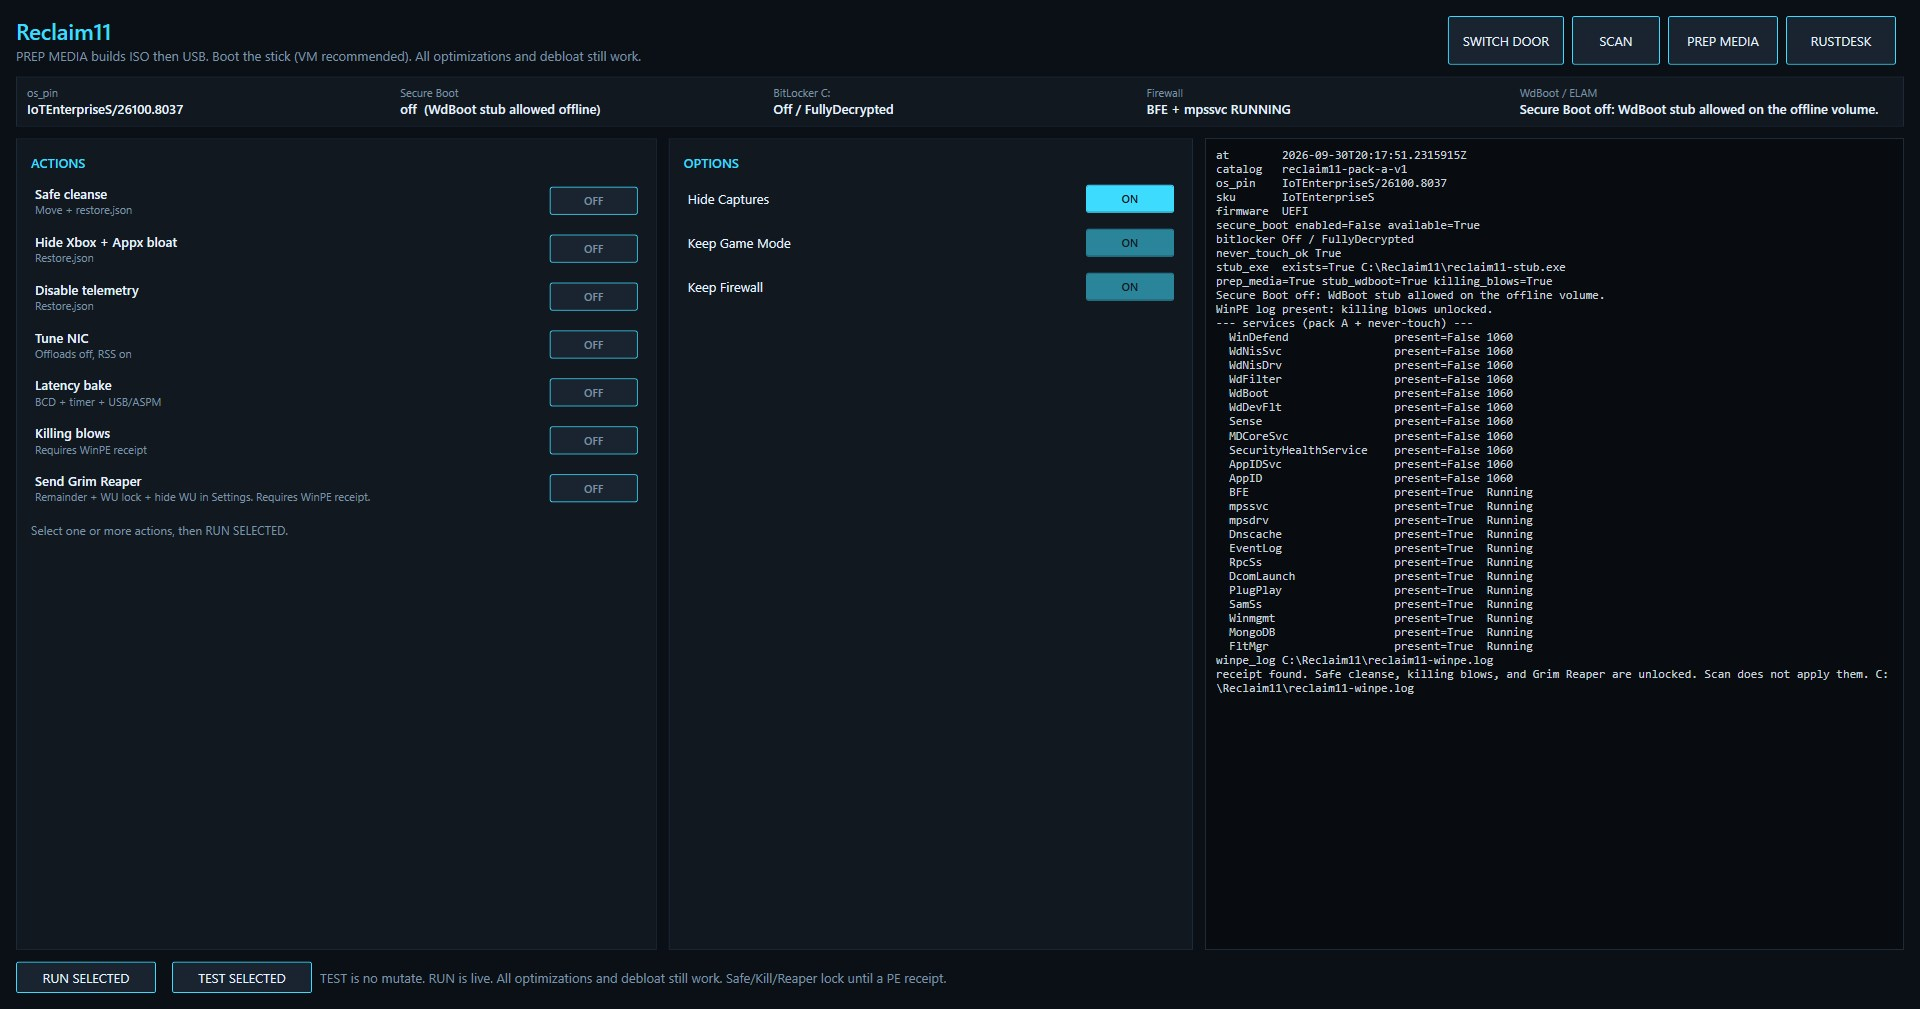
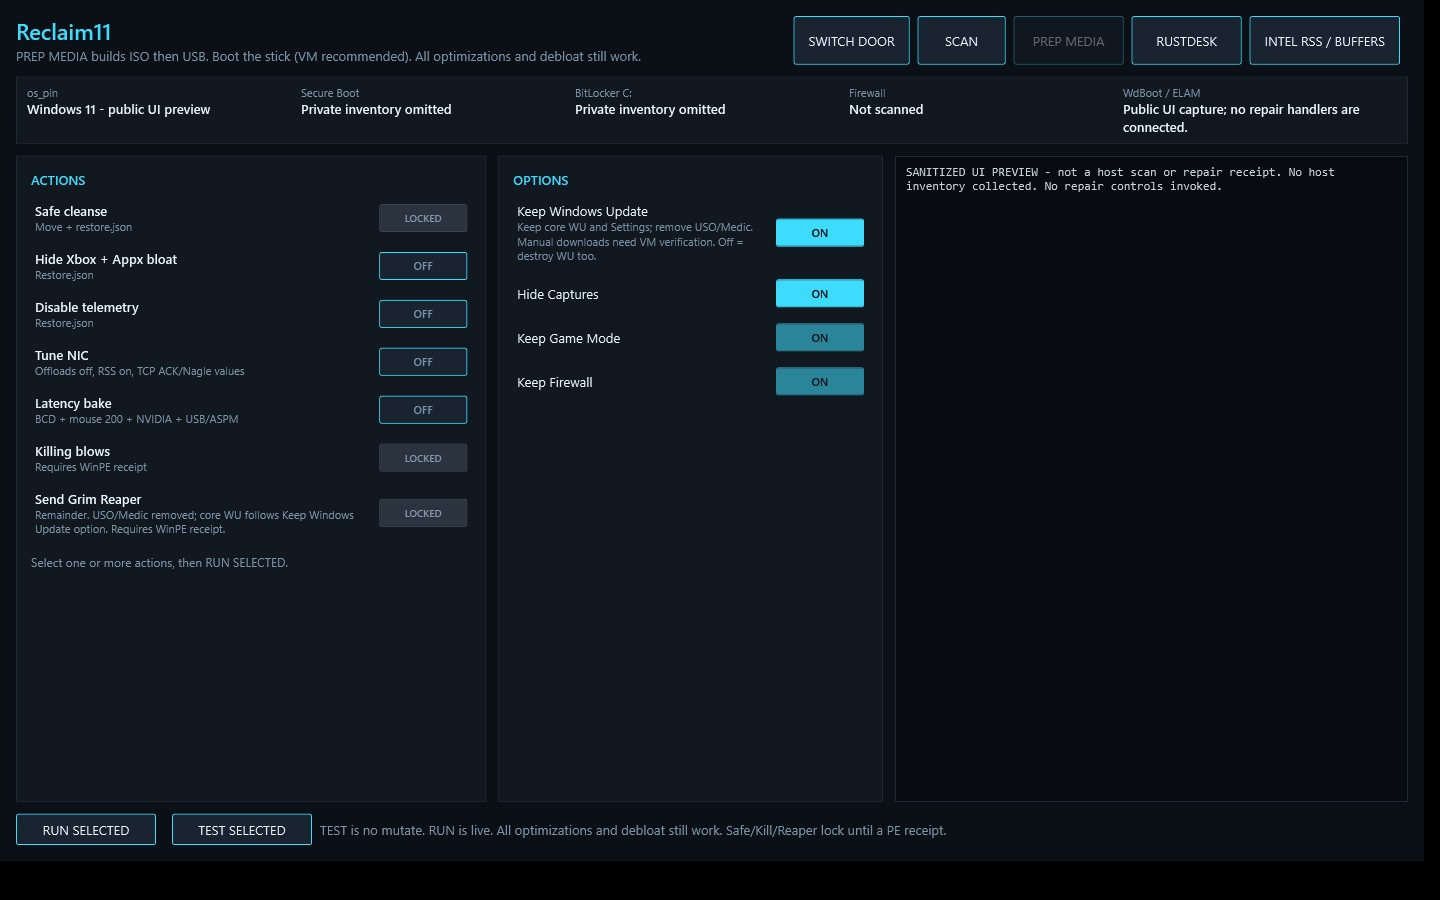
Show the Reclaim11 v14 Power User UI

diff --git a/godbrain_core/reclaim11/README.md b/godbrain_core/reclaim11/README.md
@@ -1,6 +1,10 @@
 # Reclaim11
 
-**Current standalone kit: Reclaim11 v14.**
+**Current standalone kit: [Reclaim11 v14](https://github.com/usrname1git/GodBrain/releases/tag/reclaim11-v14).**
+
+![Reclaim11 v14 Power User preview showing Intel RSS / BUFFERS and Keep Windows Update enabled](ui/Power_User_UI_Maximized.jpg)
+
+*Sanitized UI preview. No host scan or repair actions were run.*
 
 **Recommended:** run it on a VM like VMware first, or at least run TEST
 mode and see the result.
